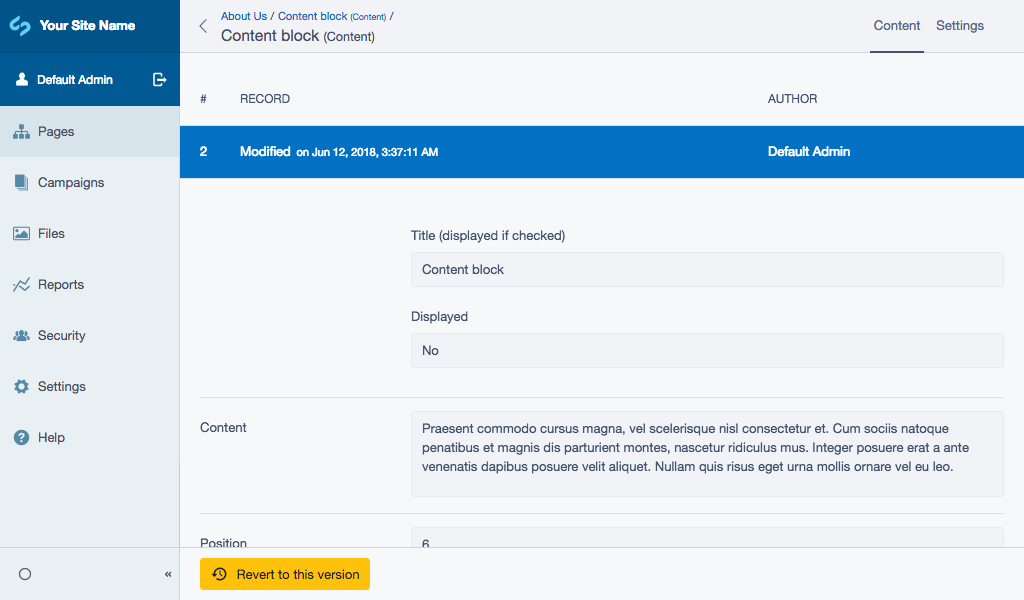
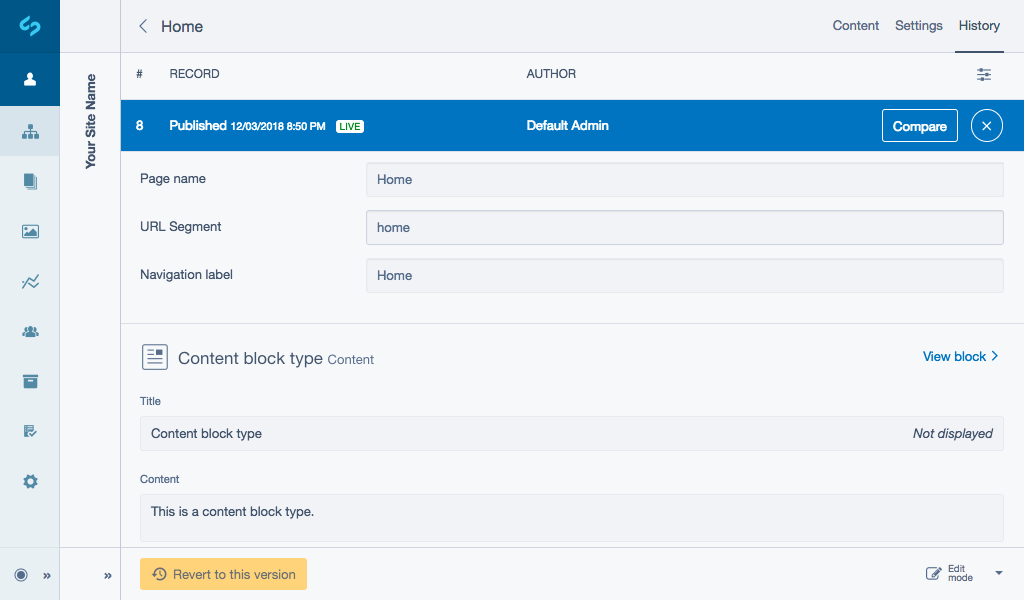
DOCS Update userhelp to reflect current UI updates [ci skip]

diff --git a/docs/en/userguide/edit_content.md b/docs/en/userguide/edit_content.md
@@ -1,45 +1,72 @@
-# Creating and editing content
+# Before we begin
 
-To get started, create a new page in the CMS. For more information, see [Pages and content](https://userhelp.silverstripe.org) User help guide, to learn more.
+To get started, create a new page in the CMS. See [Pages and content](https://userhelp.silverstripe.org/en/4/creating_pages_and_content/) to learn more.
 
-## Creating new blocks
+## Creating and editing content
 
-Normally in the CMS a page has an HTML editor which allows you to enter content directly.
-You will notice that the HTML editor has been replaced with an empty list and a content block ***Select type to create*** dropdown field.
+Click the button ***Add block*** and select the type of block you want to create from the popover option set. You'll see that content block types are also searchable on open. To remove your search click the link ***Clear***.
 
-The block types shown in the dropdown field will depend on your set up. By default the [Elemental module](https://github.com/dnadesign/silverstripe-elemental) only comes with the content block type, **Content**.
+![Choose a block type to create](_images/creating_a_content_block.png)
 
-We’ve created the most functional and effective elements of content block modules that have been developed by the SilverStripe community and created four generic SilverStripe supported content block types:
+You'll see the content block type you selected appear in your main content area titled ***Untitled Content block***. If you forget the content block type you've added, hover on the block type icon to view a tooltip.
 
-* [Content:](https://github.com/dnadesign/silverstripe-elemental) text content (built-in).
-* [Banner:](https://github.com/silverstripe/silverstripe-elemental-bannerblock) banner with call-to-action and content.
-* [File:](https://github.com/silverstripe/silverstripe-elemental-fileblock) file and image block.
-* [Form:](https://github.com/dnadesign/silverstripe-elemental-userforms) integrates [silverstripe-userforms](silverstripe/silverstripe-userforms) and provides a new content block, which can be used to create user defined forms.
+![Content block tooltip](_images/tooltip.png)
 
-For examples of community content blocks see,
-[Getting more elements](https://github.com/dnadesign/silverstripe-elemental#getting-more-elements).
+Most blocks are directly editable from within the page allowing you to have easy access adding and editing blocks without switching page views.
 
-To get started, choose the type of block you want to create from the ***Select type to create*** dropdown field, and click the button ***Add***.
+To edit, select the content block or click the button ***Expand*** shown as a dropdown arrow icon.
 
-![Choose a block to create](_images/creating_a_content_block.png)
+Enter your content as required, provide a title for the block and choose whether you want the title to be shown on the page or not via the ***Displayed*** checkbox field.
 
-From here you will be navigated away to edit the content for the new block. Enter your content as required, provide a title for the block and choose whether you want the title to be shown on the front-end or not via the ***Displayed*** checkbox field.
+<div class="note" markdown="1"> The content block will remain open until collapsed or the page is reloaded. </div>
 
-When you are finished, click the button ***Save***.
+![Expanded content block](_images/inline_editing.png)
 
-![Editing content for a block](_images/editing_content.png)
+## Reordering content blocks
 
-## Editing existing blocks
+To change the order of content blocks in a page, simply click and hold anywhere on the block, then drag and release to reorder the item.
 
-When viewing a page, you can select the content block list item or select **Content** from the ***More actions*** dropdown shown as an ellipses icon.
+<div class="note" markdown="1"> Expanded blocks will collapse upon pick up.</div>
 
-![Editing a block via More actions](_images/edit_via_more_actions.png)
+![Reordering content blocks](_images/reorder_blocks.png)
 
-# Reordering content blocks
+When you release the block will automatically save their new positions, however you may need to publish the page to see the new order.
 
-To change the order of content blocks in a page, simply click and hold on the drag handle icon on the left hand side of a block list item, then drag and release to reorder the item.
+<div class="note" markdown="1">Similar to the reorganisation of pages, the state of a block is changed after it is relocated and a new version is created.</div>
 
-![Reordering content blocks](_images/reordering_blocks.png)
+## More options
 
-When you release your mouse the blocks will automatically save their new positions, however you may need to publish
-the page to see the new order in the front-end of your website.
+The ***More options*** dropdown shown as an ellipses icon provides further editing functionality of individual blocks including access to editing content, custom settings, saving, publishing and archiving.
+
+![Content block more options](_images/more_options.png)
+
+### Editing existing blocks
+
+When viewing a page, you can select the content block or select **Content** from the ***More options*** dropdown.
+
+### Settings
+
+Your developer may choose to add custom CSS classes allowing you to add theming to the front-end of specific blocks. Custom CSS classes can be added by selecting ***Settings*** from the ***More options*** dropdown.
+
+In ***Settings*** your developer may also choose to add ***Style Variants*** to allow for different stylistic changes to adjust the appearance of content blocks. See [Style variants](https://github.com/dnadesign/silverstripe-elemental#style-variants) for more information.
+
+### Saving and publishing content blocks
+
+Pages with content blocks allow you to perform actions like publish at a page level, but you also have access to perform similar actions on individual blocks. Allowing the ability for blocks to be managed and edited by multiple CMS authors while remaining in draft while other blocks get published. This allows for more flexibility of individual blocks for example if a block has user permissions.
+
+To save or publish an individual content block select the ***More options*** dropdown. To save or publish the whole page select from the Action toolbar of the CMS. See [Saving changes and publishing](https://userhelp.silverstripe.org/en/4/creating_pages_and_content/creating_and_editing_content/saving_changes_and_publishing/) for more information.
+
+#### Block state indicators
+
+States are shown on the block type icon as coloured indicators. Each represents the current workflow status your content block is in.
+
+Blue - The block has unsaved changes.
+Orange full - The block state is **Draft** and not publicly visible.
+Orange outline - The block is **Modified** where it has been published but has some additional draft changes.
+No state - The block is published.
+
+![States of content blocks](_images/content_block_states.png)
+
+### Archiving blocks
+
+To Archive a block select *Archive* in the ***More options*** dropdown. See [Archiving](https://userhelp.silverstripe.org/en/4/creating_pages_and_content/archive/) for more information.

diff --git a/docs/en/userguide/index.md b/docs/en/userguide/index.md
@@ -1,23 +1,36 @@
 title: Content blocks
-summary: Creating content blocks in the CMS.
+summary: Content blocks overview.
 
-# Using content blocks in the CMS
+<div class="note" markdown="1">The Content blocks feature is new as of SilverStripe 4 and therefore will continue to develop with functionality.</div>
 
-The [Elemental module](https://addons.silverstripe.org/add-ons/dnadesign/silverstripe-elemental) provides the ability
-for SilverStripe users to break up their page content into pieces. This allows for more targeted control over
-individual types of content, as well as individual versioning, more detailed reports and easy customisation for
-developers over how certain pieces of content are presented.
+# Content blocks overview
+
+The [Elemental module](https://addons.silverstripe.org/add-ons/dnadesign/silverstripe-elemental) provides the ability for SilverStripe users to break up a web page into smaller modular parts (or ‘blocks’) that allow content like banners, text and media to be independently managed within the CMS. This also allows for more targeted control over individual types of content, as well as individual versioning, more detailed reports and easy customisation for developers over how certain pieces of content are presented.
 
 ## Before we begin
 
-Make sure that your SilverStripe CMS installation has the [Elemental module](https://addons.silverstripe.org/add-ons/dnadesign/silverstripe-elemental)
-installed, and optionally the [SilverStripe Blocks addon module](https://addons.silverstripe.org/add-ons/silverstripe/elemental-blocks).
-https://github.com/dnadesign/silverstripe-elemental/#getting-more-elements
+Make sure that your SilverStripe CMS installation has the [Elemental module](https://addons.silverstripe.org/add-ons/dnadesign/silverstripe-elemental) installed.
 
 <div class="note" markdown="1">Developer knowledge is required to enable the functionality within the configuration before you begin.</div>
 
+## Using content blocks in the CMS
+
+Normally in the CMS a page has an HTML editor which allows you to enter content directly. The block types shown in the popover action set will depend on your set up. By default the [Elemental module](https://github.com/dnadesign/silverstripe-elemental) only comes with the content block type, **Content**.
+
+We’ve created the most functional and effective elements of content block modules that have been developed by the SilverStripe community and created four generic SilverStripe supported content block types:
+
+* [Content:](https://github.com/dnadesign/silverstripe-elemental) text content (built-in).
+* [Banner:](https://github.com/silverstripe/silverstripe-elemental-bannerblock) banner with call-to-action and content.
+* [File:](https://github.com/silverstripe/silverstripe-elemental-fileblock) file and image block.
+* [Form:](https://github.com/dnadesign/silverstripe-elemental-userforms) integrates [silverstripe-userforms](silverstripe/silverstripe-userforms) and provides a new content block, which can be used to create user defined forms.
+
+![Supported content block types](_images/content_block_types.png)
+
+For examples of community content blocks see,
+[Getting more elements](https://github.com/dnadesign/silverstripe-elemental#getting-more-elements).
+
 ## Features
 
-* [Create and editing Content blocks](edit_content.md)
+* [Creating and editing blocks](edit_content.md)
 * [History and rollback to certain versions](history.md)
 * [Reports](reports.md)

diff --git a/docs/en/userguide/history.md b/docs/en/userguide/history.md
@@ -1,20 +1,29 @@
-# Using block history
+# Using history
+
+[Pages history](https://userhelp.silverstripe.org/en/4/creating_pages_and_content/pages/rolling_back_pages/) includes content block history out of the box. Blocks have their own versioning and can be viewed as part of a pages **History**.
 
 ## Finding historic versions of content
 
-Whenever you modify a block and save it, a new version of the block is created and the old version is saved in a
-history archive. You can view the archived item by navigating to the **History** tab of any block, which will show you a list of each version, the date it was modified or published and the user who actioned the change.
+Whenever you modify a block and save it, a new version of the block is created and the old version is saved in the history section of the CMS. You can view the older versions by navigating to the **History** tab of any block, which will show you a list of each version, the date it was modified or published and the user who actioned the change.
 
-![Viewing the history of a block](_images/viewing_block_history.png)
+![History section](_images/content_block_compare.png)
 
-You can select a specific version to see a reference of what the content block looked like at that version.
+You can select a specific record to see a reference of what the content block looked like at that version.
 
-![A version in history](_images/block_version.png)
+![Viewing the history of a block](_images/block_version.png)
 
 ## Rolling back to specific versions
 
-If you want to revert a content block back to an old version, simply choose the version you want from the list and click the button ***Revert to this version***.
+If you want to revert a content block back to an old version, simply choose the record you want from the list and click the button ***Revert to this version*** in the bottom Action toolbar.
 
 ![Revert button](_images/revert_button.png)
 
-This will create a new draft version of the content block with the old content present. You will need to publish the content block in order to be visible on the front-end website.
+This will create a new draft version with its most recent content. You will need to publish the content block in order for it to show on the live version of the page.
+
+## Compare mode
+
+Navigate to the **History** tab. Similar to Pages see [Comparing snapshots](https://userhelp.silverstripe.org/en/4/creating_pages_and_content/pages/rolling_back_pages/#comparing-snapshots) to learn how to view what has changed between 2 different versions of a page.
+
+When viewing a version, history has a few extra features Page history does not include:
+* Select ***View block*** to take you to edit mode.
+* The label ***Displayed*** represents if the ***Title*** of your content block is shown on the front-end of your website or not.

diff --git a/docs/en/userguide/reports.md b/docs/en/userguide/reports.md
@@ -1,4 +1,4 @@
-# Use the reports
+# Content block reports
 
 The [Elemental module](https://addons.silverstripe.org/add-ons/dnadesign/silverstripe-elemental) will add new
 reports to the **Reports** section of the CMS. These will allow you to identify and find content within blocks quickly.
@@ -16,10 +16,9 @@ You can select a content block type to view the ***Content blocks in use*** repo
 
 ## Content blocks in use
 
-Here you will be shown a more detailed overview of the content blocks in your system, which type they are and
-which page they were created on.
+Here you will be shown a more detailed overview of the content blocks in your system, which type they are and which page they were created on.
 
-Select any block title, or page name to enter Edit mode.
+Select any block title, or page name to enter **Edit mode**.
 
 ![Content blocks in use report](_images/report_in_use.png)
 
